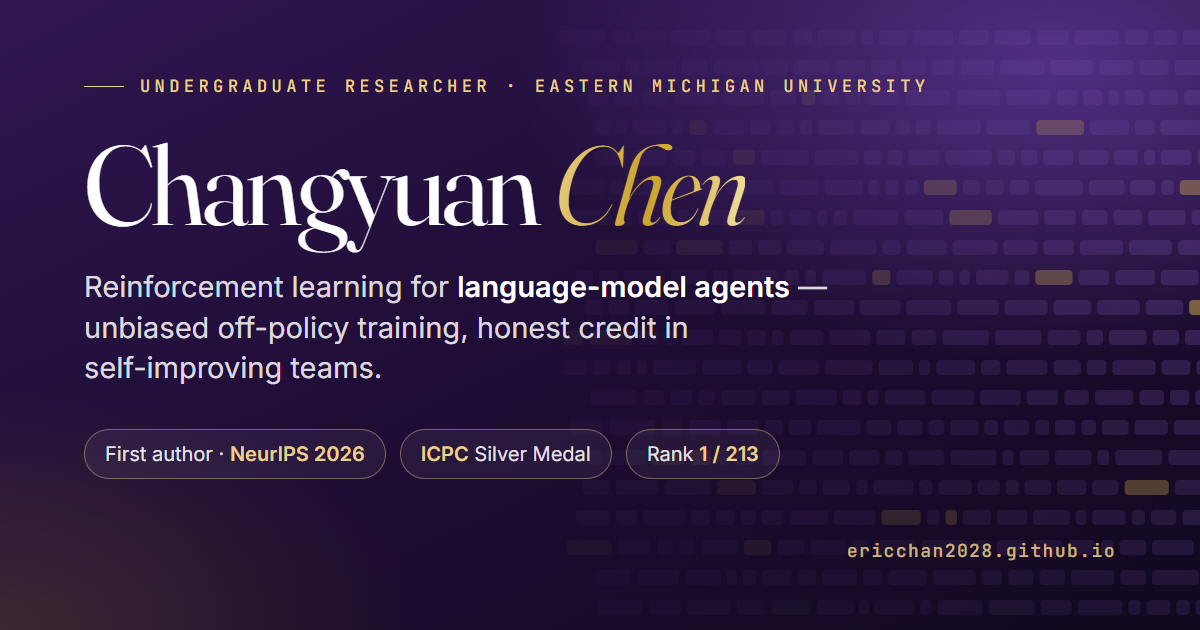
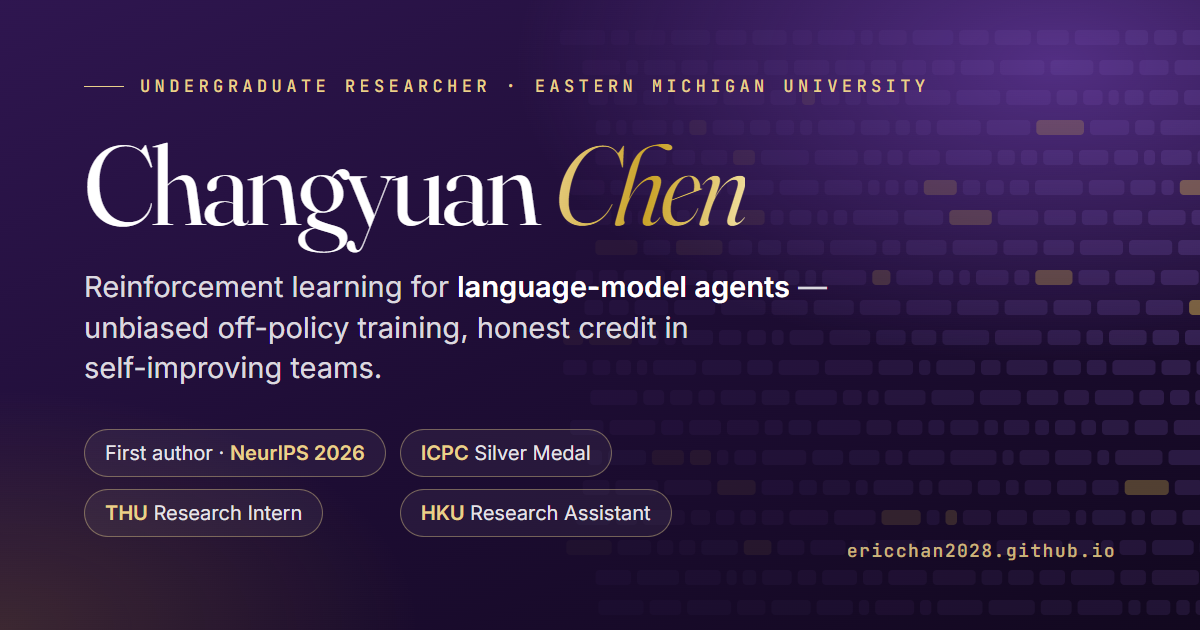
Hero: replace GPA badge with THU research intern and HKU research assistant
Badges now sit in a 2x2 grid (honors row, positions row); single column on
phones. The social preview image mirrors the new badges.

Changed region(s): [[0.3392, 0.6937, 0.6475, 0.8444], [0.0925, 0.6937, 0.3083, 0.8444]]

diff --git a/assets/css/style.css b/assets/css/style.css
@@ -235,9 +235,9 @@ a:hover { color: var(--gold-ink); }
 @keyframes sheen { 0%, 100% { background-position: 0% 50%; } 50% { background-position: 100% 50%; } }
 .hero__lede { max-width: 640px; font-size: clamp(17px, 1.45vw, 20px); line-height: 1.6; color: rgba(255, 255, 255, .84); margin: 0 0 30px; }
 .hero__lede strong { color: var(--white); font-weight: 600; }
-.hero__badges { list-style: none; padding: 0; margin: 0 0 36px; display: flex; flex-wrap: wrap; gap: 10px; }
+.hero__badges { list-style: none; padding: 0; margin: 0 0 36px; display: grid; grid-template-columns: repeat(2, max-content); justify-items: start; gap: 10px; }
 .hero__badges li {
-  display: inline-flex; align-items: center; gap: 9px;
+  display: inline-flex; align-items: center; gap: 9px; white-space: nowrap;
   padding: 9px 15px; border-radius: 999px;
   font: 500 13.5px/1 var(--sans); color: rgba(255, 255, 255, .86);
   background: rgba(255, 255, 255, .05);
@@ -598,6 +598,7 @@ html.is-locked { overflow: hidden; }
   .filters { justify-content: flex-start; }
 }
 @media (max-width: 560px) {
+  .hero__badges { grid-template-columns: 1fr; }
   body { font-size: 16px; }
   .wrap { padding: 0 16px; }
   .nav__inner { padding: 12px 16px; gap: 12px; }

diff --git a/index.html b/index.html
@@ -77,7 +77,8 @@
       <ul class="hero__badges" aria-label="Highlights">
         <li><span class="badge-dot"></span>First author · <b>NeurIPS 2026</b></li>
         <li><span class="badge-dot"></span><b>ICPC</b> Silver Medal</li>
-        <li><span class="badge-dot"></span>GPA 3.93 · <b>Rank 1 / 213</b></li>
+        <li><span class="badge-dot"></span><b>THU</b> Research Intern</li>
+        <li><span class="badge-dot"></span><b>HKU</b> Research Assistant</li>
       </ul>
       <div class="hero__cta">
         <a class="btn btn--gold" href="#publications">Read the papers</a>
